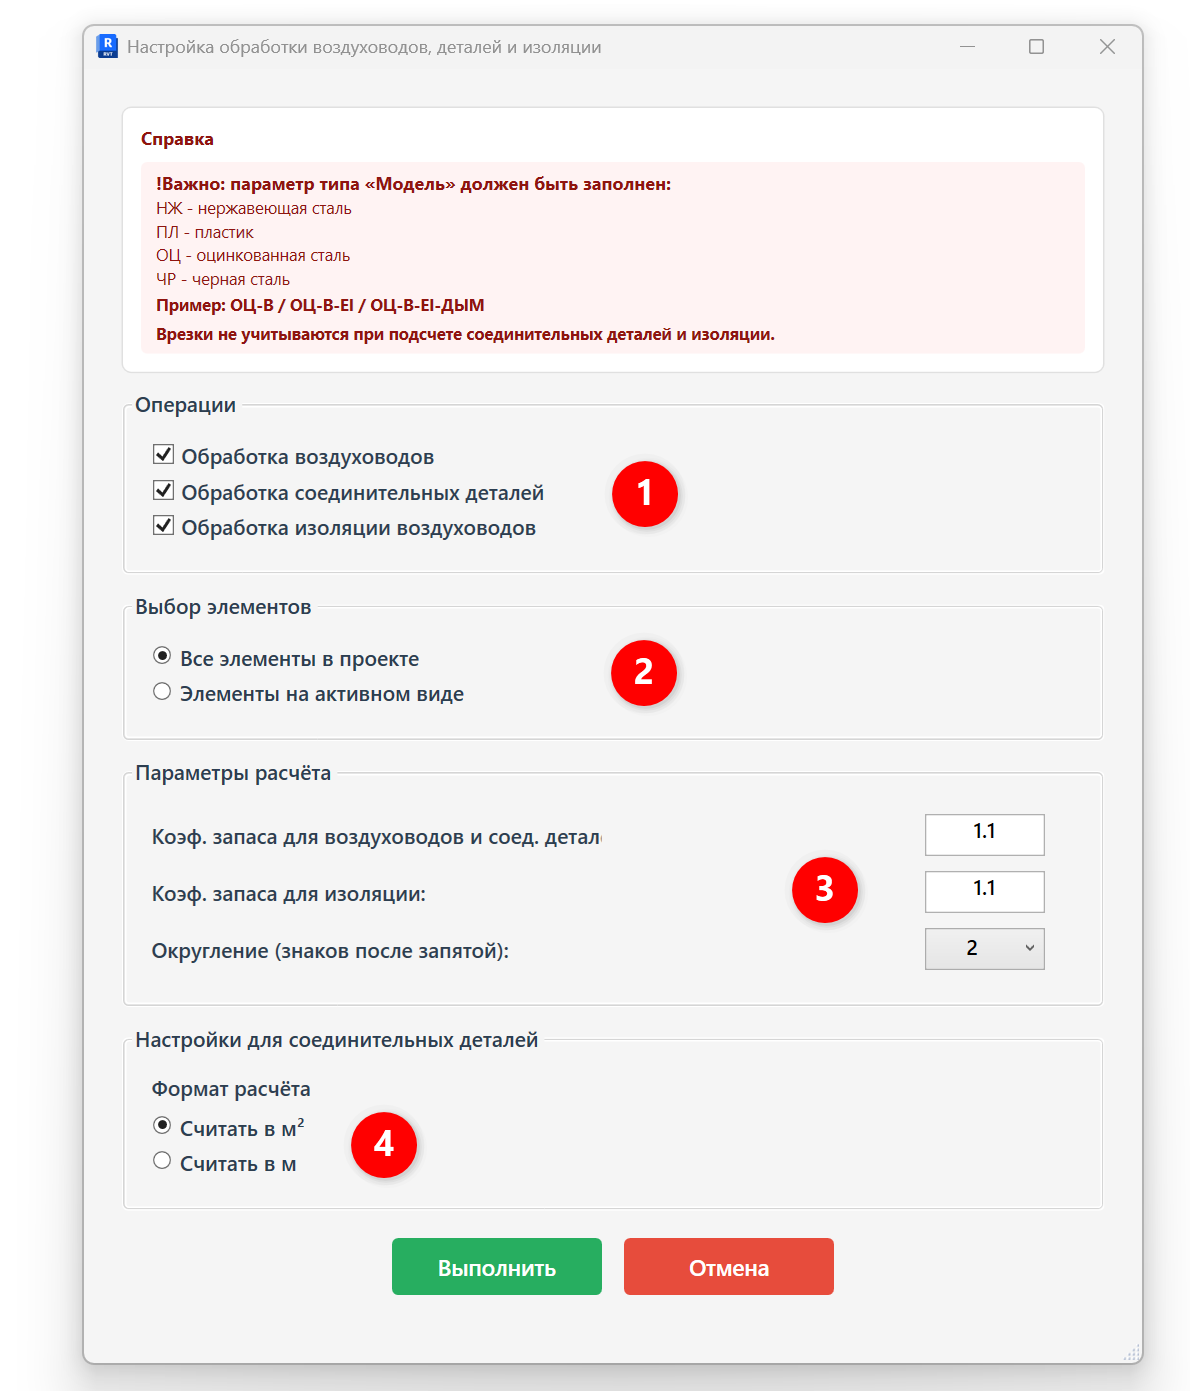
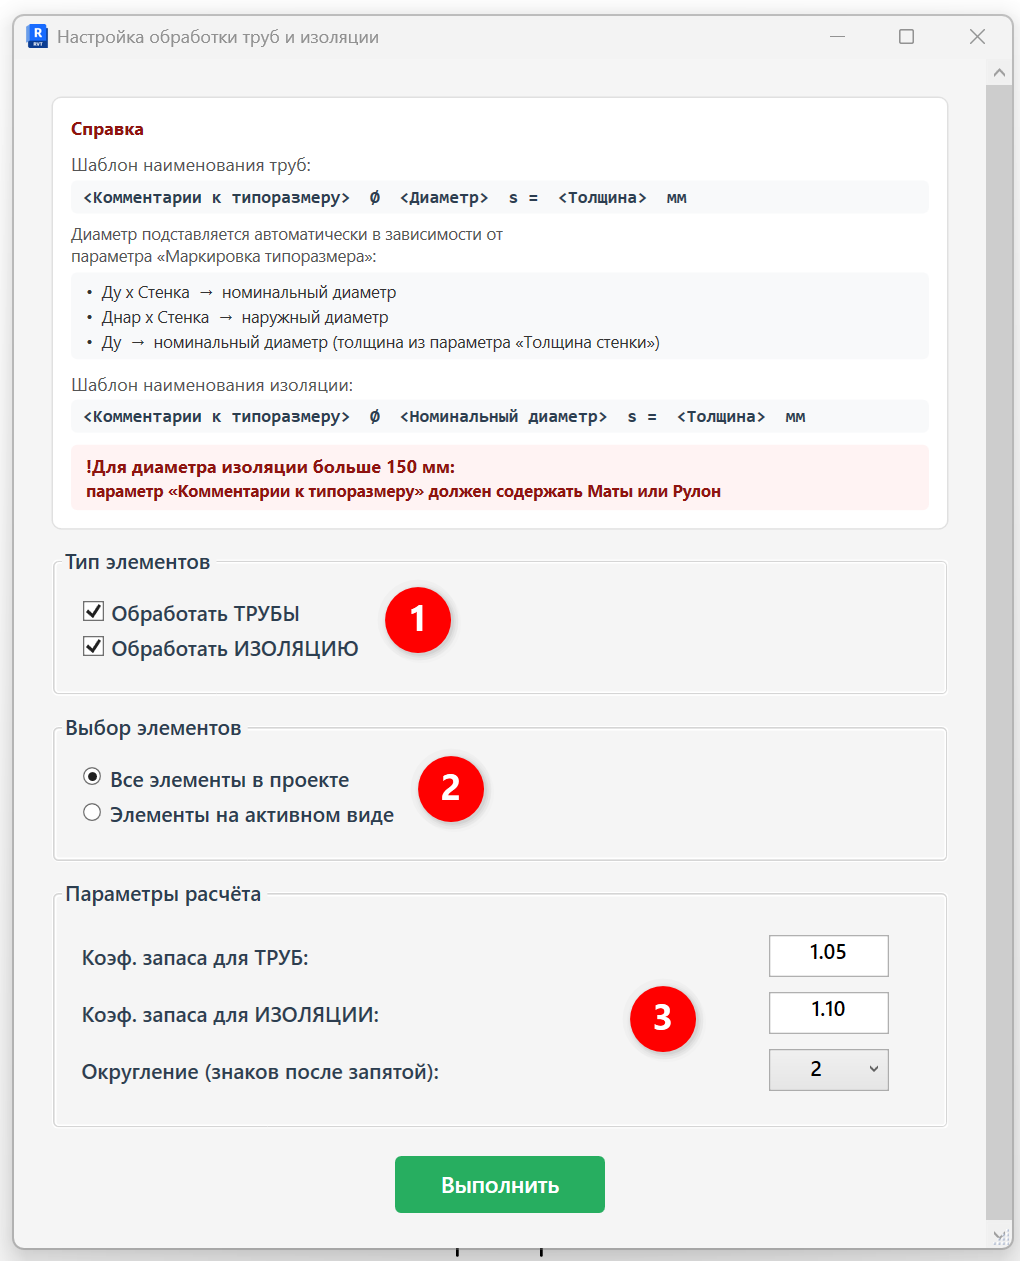
Обновлено файлов: 5
- BIM-instrykcii/plaginy/garda_vis/ovik-vk/vozdukhovody-i-izolyaciya.md
 - BIM-instrykcii/plaginy/garda_vis/ovik-vk/vozdukhovody-i-izolyaciya-2.md
   - BIM-instrykcii/plaginy/garda_vis/ovik-vk/vozdukhovody-i-izolyaciya-6.webp
   - BIM-instrykcii/plaginy/garda_vis/ovik-vk/vozdukhovody-i-izolyaciya-7.webp
   - BIM-instrykcii/plaginy/garda_vis/ovik-vk/vozdukhovody-i-izolyaciya-8.webp

diff --git a/BIM-instrykcii/plaginy/garda_vis/ovik-vk/vozdukhovody-i-izolyaciya-2.md b/BIM-instrykcii/plaginy/garda_vis/ovik-vk/vozdukhovody-i-izolyaciya-2.md
@@ -7,73 +7,67 @@ order: 16
 
 ## 1\. Где находится
 
-Плагин расположен на вкладке **GARDA_ВИС**, панели **Спецификации ОВ\\ВК**.
+Плагин расположен на вкладке «**GARDA_ВИС»**, панели «**Спецификации ОВ\\ВК»**.
 
-## 2\. Преднастройка
+![](./vozdukhovody-i-izolyaciya-8.webp){width=720px height=160px scale=494px}
 
 Для корректной обработки элементов через плагин нужно, чтобы были корректно заполнены определенные параметры для категорий ниже:
 
-#### Воздуховоды
+## 2\. Как пользоваться
 
-- параметр типа «Модель»;
-- параметр типа «Комментарии к типоразмеру»
-- параметры типа «Дымоудаление» и «Огнезащита»
+### 2\.1. Преднастройка
 
-#### Соединительные детали
+Для корректной обработки элементов через плагин нужно, чтобы были корректно заполнены определенные параметры для категорий ниже:
 
-- параметр типа «Модель»;
-- параметр типа «Комментарии к типоразмеру»
-- параметры типа «Дымоудаление» и «Огнезащита»
+#### Трубопроводы
 
-#### Материалы изоляции воздуховодов
-
-- параметр типа «Комментарии к типоразмеру»
+- Параметр типа **«Комментарии к типоразмеру»** (Пример заполнения: *Труба стальная водогазопроводная, Труба из сшитого полиэтилена*).
+- Параметр типа **«Маркировка типоразмера»**. От его заполнения зависит, какой диаметр подставится в наименование:
+  - `Ду х Стенка` -> подставляется **номинальный диаметр**;
+  - `Днар х Стенка` -> подставляется **наружный диаметр**;
+  - `Ду` -> подставляется **номинальный диаметр** (толщина берется из параметра «Толщина стенки»).
 
 <note type="info">
-  Подробную информацию о заполнении данных параметров см. пункт 5.
+  Итоговый шаблон наименования трубы:
 
-  Врезки не учитываются.
+  `<Комментарии к типоразмеру> ⌀ <Диаметр> s = <Толщина> мм`
 </note>
 
-## 3\. Как пользоваться
+#### Изоляция трубопроводов
+
+- Параметр типа **«Комментарии к типоразмеру»**.
+
+  <note>
+    Для диаметра изоляции больше 150 мм параметр «Комментарии к типоразмеру» **должен содержать слова «Маты» или «Рулон»**.
+  </note>
+
+<note type="info">
+  Итоговый шаблон наименования изоляции: \
+  `<Комментарии к типоразмеру> ⌀ <Номинальный диаметр> s = <Толщина> мм`
+</note>
+
+### 2\.2 Интерфейс
 
 Запустите плагин и выберите, что именно необходимо обрабатывать и с какими настройками:
 
-![](./vozdukhovody-i-izolyaciya-6.webp){width=1190px height=1391px scale=70}
+![](./vozdukhovody-i-izolyaciya-6.webp){width=1020px height=1261px scale=438px}
 
 1. \- что именно необходимо обработать;
 2. \- обработать все элементы в проекте или только элементы на активном виде;
-3. \- указывается коэффициенты запаса с которыми будет производиться расчет количества воздуховодов и составляющих;
-4. \- настройки расчета соединительных деталей (расчет производится в м2, либо в м)
-
-   **Пример заполнения параметров при выборе «Считать в м2»:**
-
-   ADSK_Наименование = Фасонные изделия воздуховодов из оц. стали, s=1 мм, диаметром свыше 800 до 1250 мм включительно
-
-   ADSK_Единица измерения= «м2»
-
-   ADSK_Количество= Площадь \* Коэффициент запаса
-
-   **Пример заполнения параметров при выборе «Считать в м»:**
-
-   ADSK_Наименование= Воздуховод из оц. стали (t среды \< 80 °C), класс герметичности B, Ø1000, s=1 мм
-
-   ADSK_Единица измерения= «м»
-
-   ADSK_Количество= Эквивалентная длина \* Коэффициент запаса
+3. \- указывается коэффициенты запаса с которыми будет производиться расчет количества трубопроводов и изоляции;
 
 После выбора настроек, необходимо нажать кнопку «Выполнить».
 
-## 4\. Отчет по обработке ошибок
+## 3\. Отчет по обработке ошибок
 
 После обработки плагина будет выведен отчет:
 
-![](./vozdukhovody-i-izolyaciya-7.webp){width=1511px height=1228px scale=88}
+![](./vozdukhovody-i-izolyaciya-7.webp){width=802px height=757px scale=412px}
 
 Здесь выводится информация, какие элементы обработаны и какие ошибки при обработке возникают.
 
 Частые ошибки:
 
-1. Не заполнены параметры «Модель»/«Комментарии к типоразмеру» - устраняет инженер
+1. Не заполнены параметры «Маркировка типоразмера»/«Комментарии к типоразмеру» - устраняет инженер
 2. Элемент занят другим пользователем - устраняет инженер
-3. Параметр «ADSK_Единица измерения» или другой - устраняет координатор
+3. Параметр «ADSK_Единица измерения»(или другой)  не доступен для записи- устраняет координатор

diff --git a/BIM-instrykcii/plaginy/garda_vis/ovik-vk/vozdukhovody-i-izolyaciya.md b/BIM-instrykcii/plaginy/garda_vis/ovik-vk/vozdukhovody-i-izolyaciya.md
@@ -78,7 +78,7 @@ order: 15
 
 1. Не заполнены параметры «Модель»/«Комментарии к типоразмеру» - устраняет инженер
 2. Элемент занят другим пользователем - устраняет инженер
-3. Параметр «ADSK_Единица измерения» или другой - устраняет координатор
+3. Параметр «ADSK_Единица измерения» (или другой) не доступен для записи - устраняет координатор
 
 
 
